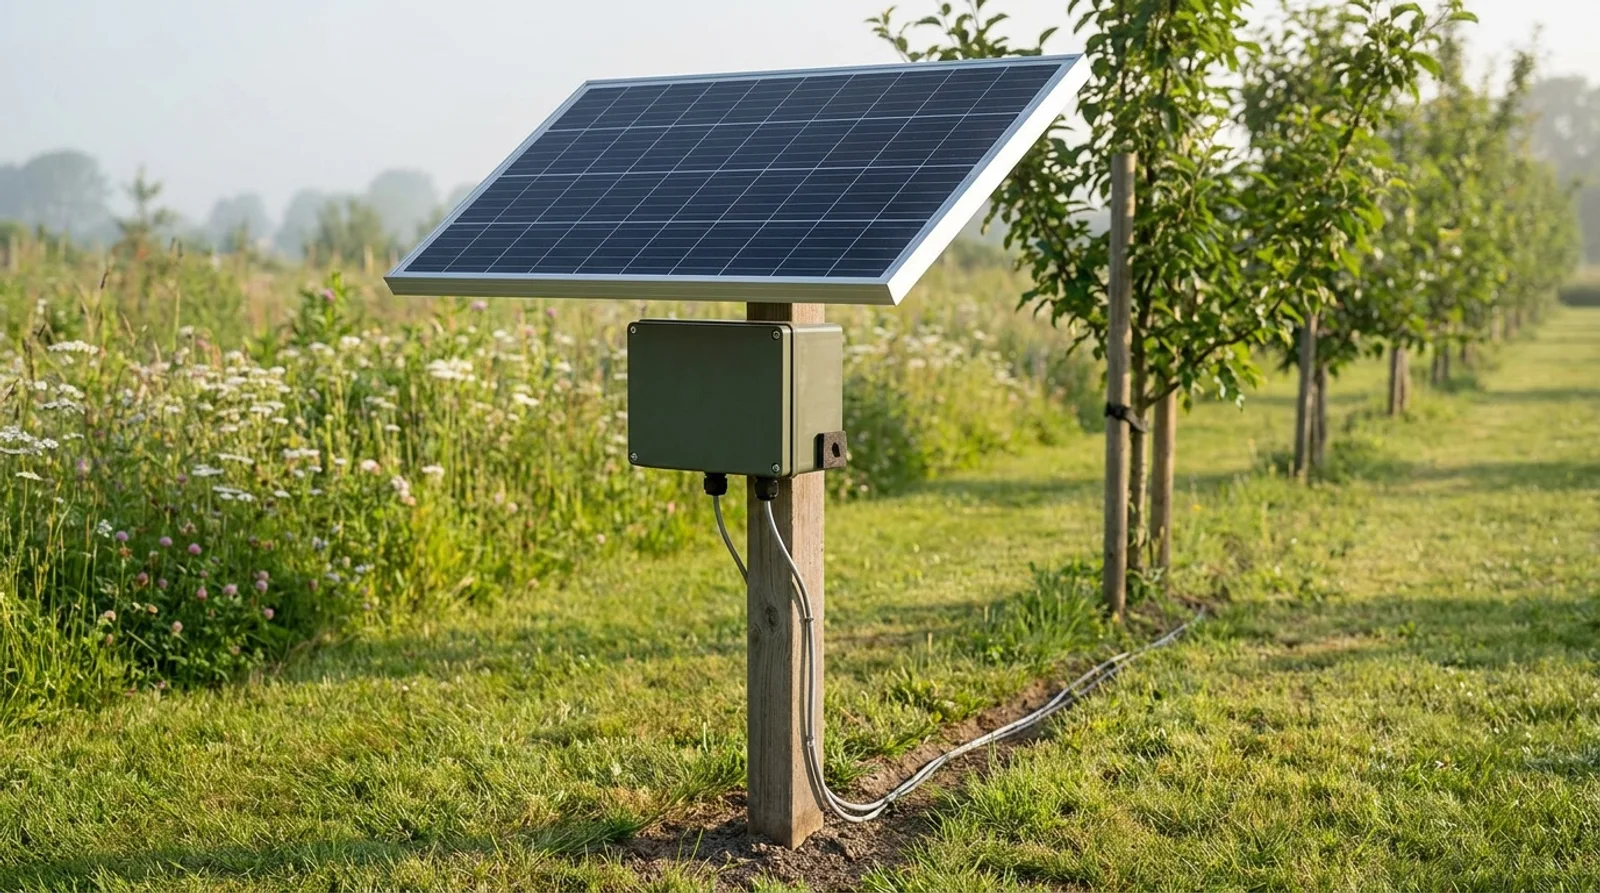
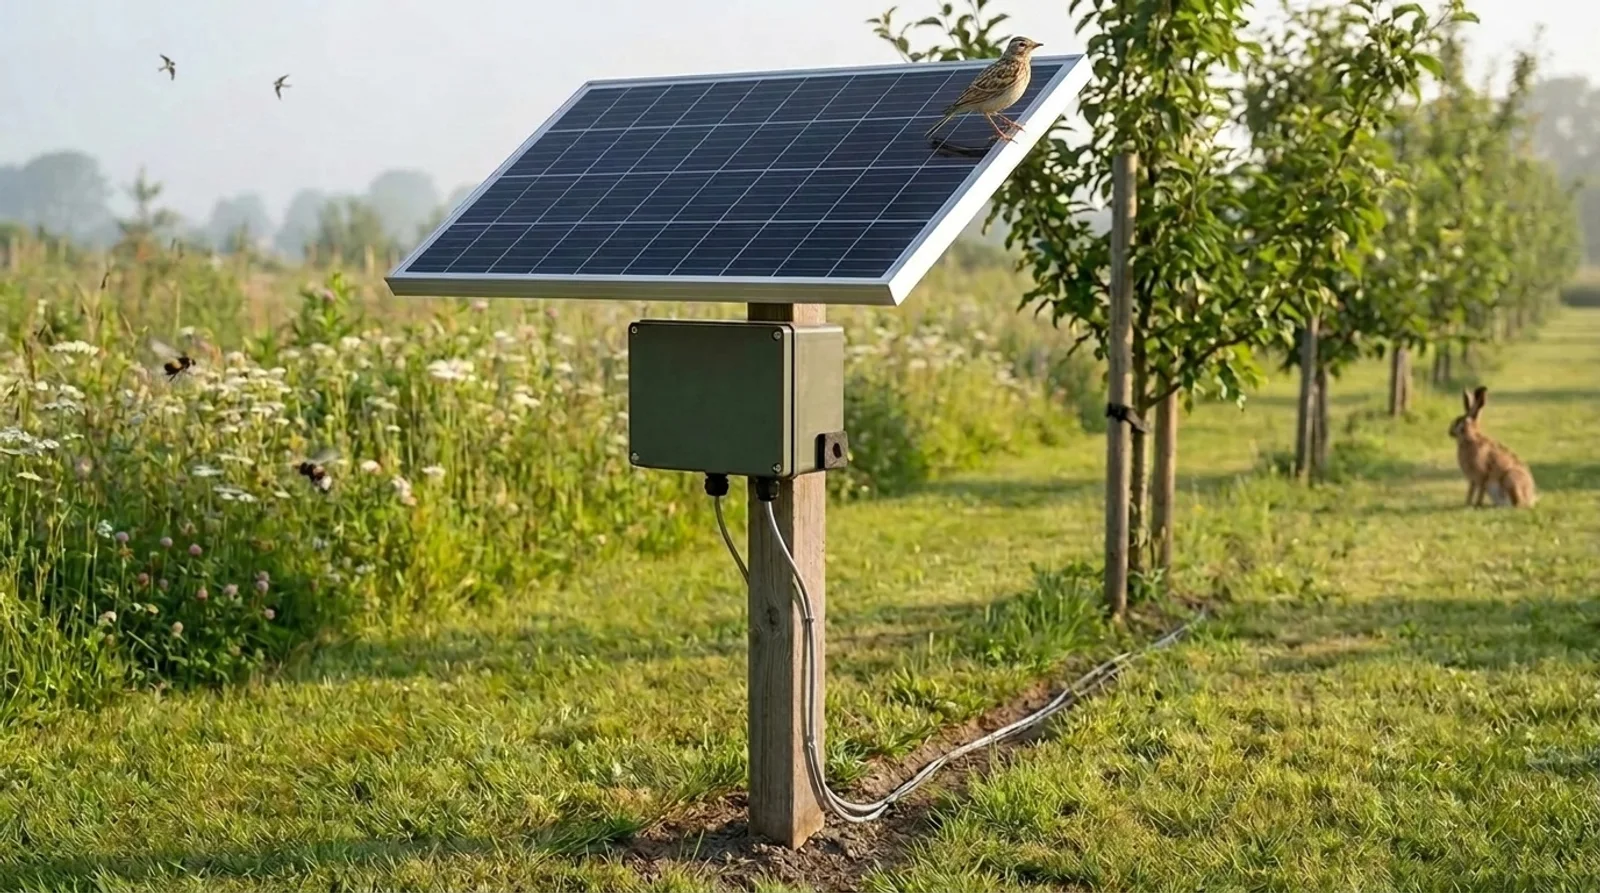
The impressions get the life in them: a skylark on the panel, a hare down the alley
A picture of the node with nothing alive in it argues against the thing the
node is for. Both impressions now carry what a node would actually hear and
sit among: a skylark singing on the corner of the panel, bumblebees over the
flowering strip, a hare in the alley and swallows crossing, and in the wheat
version a second skylark up over the field with the hare showing only its head
and ears above the crop.

Scale was the work. The first pass put a fist-sized bumblebee and a bird a
fifth as wide as a one-metre panel into the frame, which reads as a poster
rather than a morning; the animals were resized against the panel's own cell
grid until a skylark is the sixth of a panel width it really is.

Alt text describes the animals, and the captions still say impression rather
than photograph.

diff --git a/src/app/page.tsx b/src/app/page.tsx
@@ -57,7 +57,7 @@ export default async function Home() {
         <div className="rounded-lg border border-line bg-white overflow-hidden grid md:grid-cols-2">
           <Image
             src="/img/life-node-impression.webp"
-            alt="Impression of the Life node in an agroforestry alley: a small matt green box on a short square wooden post under a tilted solar panel, with two grey probe leads running into the ground"
+            alt="Impression of the Life node in an agroforestry alley: a small matt green box on a short square wooden post under a tilted solar panel, with two grey probe leads running into the ground, a skylark singing on the corner of the panel and a hare sitting further down the alley"
             width={1600}
             height={900}
             className="w-full h-full object-cover min-h-[220px]"

diff --git a/content/kit.md b/content/kit.md
@@ -8,9 +8,9 @@ order: 3
 
 One box, one post, one radio. A landowner gets a sealed enclosure with a solar panel and two probe cables. They drive in a post, hang the box, push the probes into the ground. Everything else was done before it shipped. Prices and stock checked on live shop pages, most recently on 2026-09-16, when the first set was ordered. Incl. VAT unless a line says otherwise. The order list in the repository is the source of truth; this table is a description of it.
 
-![Impression of the Life node in an agroforestry alley: a small matt green box mounted on a short square wooden post under a tilted solar panel, with two grey probe leads running down the post and into a slit in the turf](/img/life-node-impression.webp)
+![Impression of the Life node in an agroforestry alley: a small matt green box mounted on a short square wooden post under a tilted solar panel, with two grey probe leads running down the post and into a slit in the turf. A skylark sings on the corner of the panel, bumblebees work the flowering strip, a hare sits further down the mown alley and two swallows cross the sky](/img/life-node-impression.webp)
 
-*An impression of the design, not a photograph. The kit is designed and ordered; nothing has been built yet, and the [build plan](/docs/build) says where that stands. What the picture is right about is the shape and the size: one box the size of a shoebox at knee height, one panel above it doing the work of a roof, one post, two leads into the ground, and nothing else.*
+*An impression of the design, not a photograph. The kit is designed and ordered; nothing has been built yet, and the [build plan](/docs/build) says where that stands. What the picture is right about is the shape and the size: one box the size of a shoebox at knee height, one panel above it doing the work of a roof, one post, two leads into the ground, and nothing else. The skylark, the hare and the bees are the point of the whole exercise rather than decoration: they are what the node is there to notice, and the bird on the panel is the one that ends up in the Diversity reading.*
 
 ## Why one box
 
@@ -57,7 +57,7 @@ The node folds all of it into one enclosure:
 
 A node in an arable field has two predators: people who take things, and the sprayer that never saw it. Both are answered by the same choice, which is to keep the solid part of the node below the crop and put only a 6 mm rod above it.
 
-![Impression of the same node standing in ripening wheat, with only the tilted panel showing above the ears](/img/life-node-in-crop.webp)
+![Impression of the same node standing in ripening wheat, with only the tilted panel showing above the ears. A skylark sings on the corner of the panel, another is up over the field, and a hare watches from the tramline with only its head and ears above the crop](/img/life-node-in-crop.webp)
 
 *The same design in June wheat, and the reason for every dimension below: at 1090 mm nothing stands above the crop. An impression, not a photograph.*
 
